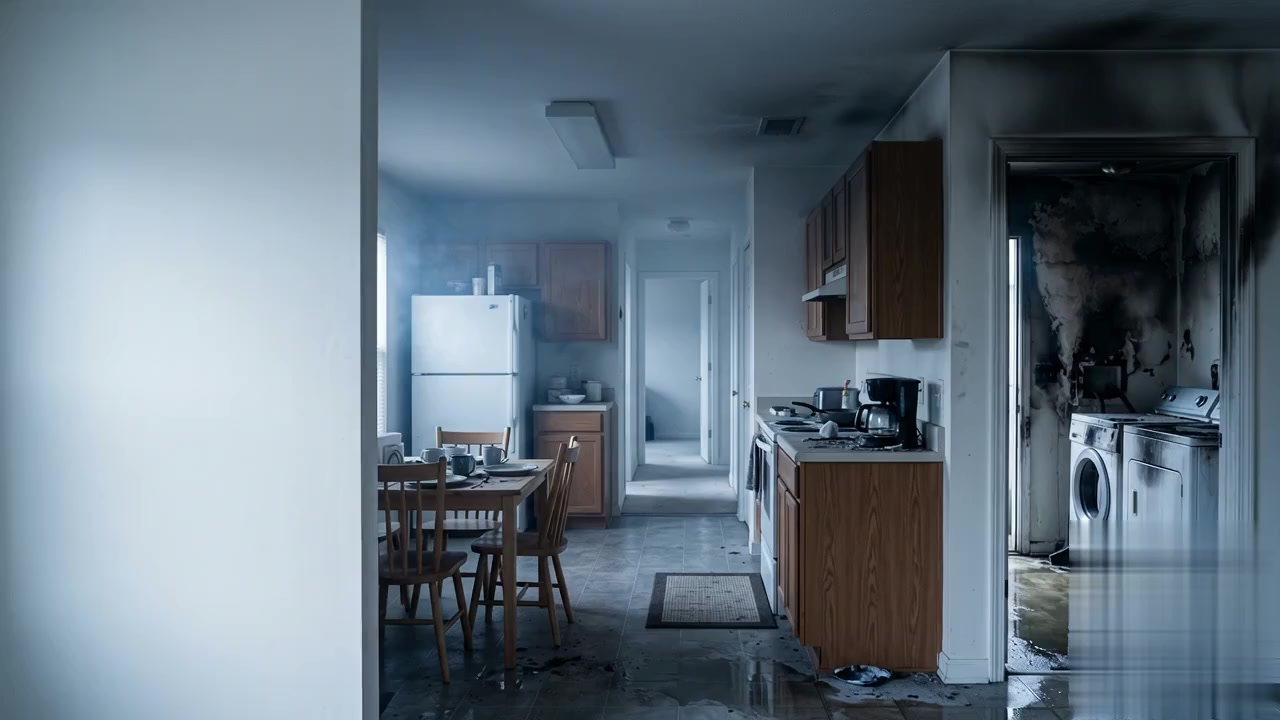
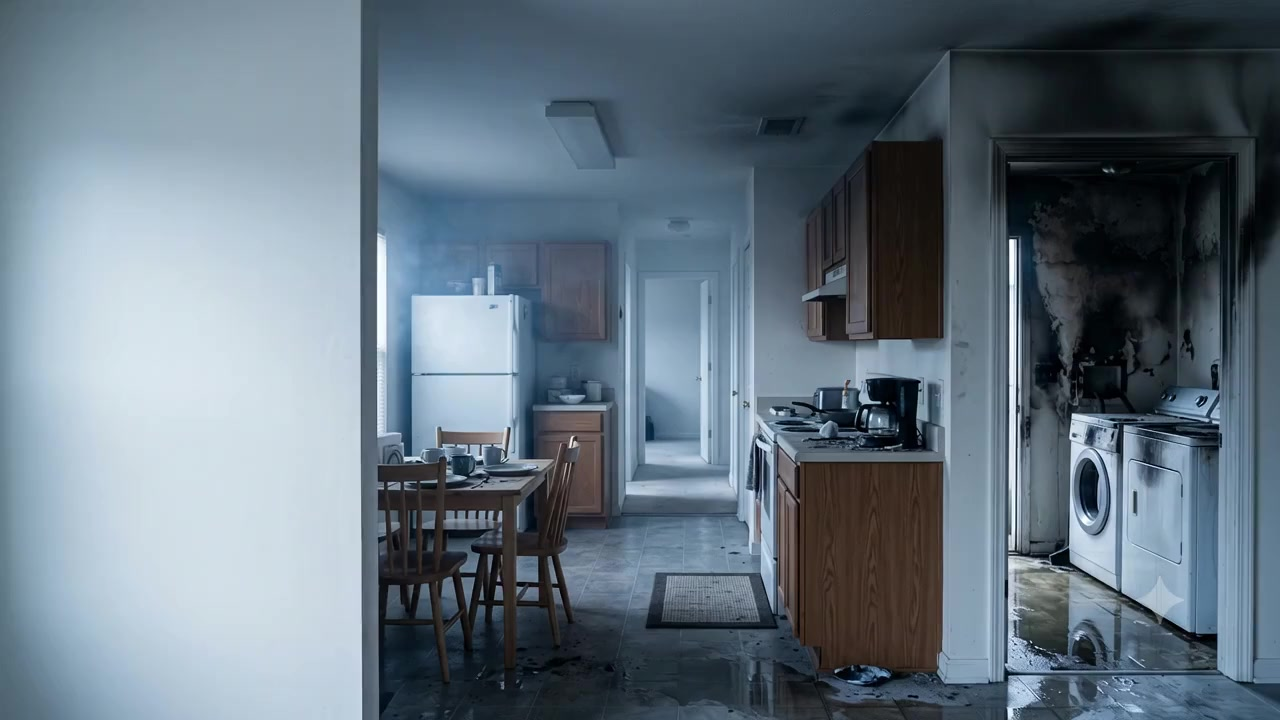
Homepage hero: dual-media, device- and motion-aware background
Replace the single hero clip with a four-layer media stack (residential +
commercial stills and videos) crossfaded by opacity:
- desktop (>900px): residential video crossfades to commercial and loops
  back; commercial clip lazy-loads on the tail; both muted/playsInline;
  pauses when the tab is hidden
- mobile (<=900px): two posters crossfade on a loop, no mp4 requested
- prefers-reduced-motion: residential still only, no JS, no video
Media-layer change only — hero layout, scrim, copy, and CTAs unchanged.
Adds commercial-hero.mp4 + poster; updates residential clip + poster.

Changed region(s): [[0.8125, 0.7028, 1.0, 1.0]]

diff --git a/index.html b/index.html
@@ -20,10 +20,14 @@
   /* HERO (homepage-specific) */
   .hero { position: relative; overflow: hidden; background: var(--navy-900); border-bottom: var(--border-1); isolation: isolate; }
   .hero__media { position: absolute; inset: 0; z-index: 0; background: var(--navy-900); }
-  .hero__media > img, .hero__media > video { position: absolute; inset: 0; width: 100%; height: 100%; object-fit: cover; object-position: 80% 50%; display: block; }
-  .hero__media > img { z-index: 0; }
-  .hero__media > video { z-index: 1; }
-  @media (prefers-reduced-motion: reduce){ .hero__media > video { display: none; } }
+  /* Four stacked media layers (2 stills + 2 videos). Crossfade via opacity; the incoming layer
+     is raised above the outgoing (is-front) so there is no navy dip between clips. All layers sit
+     below the navy scrim (::after, z-index:2) and the headline grid. */
+  .hero__layer { position: absolute; inset: 0; width: 100%; height: 100%; object-fit: cover; object-position: 80% 50%; display: block; z-index: 0; opacity: 0; }
+  .hero__still { transition: opacity .8s ease; }
+  .hero__vid   { transition: opacity 1s ease; }
+  .hero__layer.is-active { opacity: 1; }
+  .hero__layer.is-front  { z-index: 1; }
   .hero__media::after { content: ""; position: absolute; inset: 0; z-index: 2; pointer-events: none;
     background:
       linear-gradient(96deg, rgba(11,37,69,0.95) 0%, rgba(11,37,69,0.88) 22%, rgba(11,37,69,0.66) 44%, rgba(11,37,69,0.34) 64%, rgba(11,37,69,0.12) 82%, rgba(11,37,69,0.03) 100%),
@@ -111,20 +115,125 @@ const {
   ServiceCard, ArticleCard, Button, LeadForm, DisclaimerCallout, LicenseBadge
 } = window.AdjustlyDesignSystem_e51731;
 const A = window.ADJUSTLY;
-const POSTER = './assets/img/kitchen-hero-poster.jpg';
-const VIDEO  = './assets/video/kitchen-hero.mp4';
+const POSTER_RES = './assets/img/kitchen-hero-poster.jpg';
+const POSTER_COM = './assets/img/commercial-hero-poster.jpg';
+const VIDEO_RES  = './assets/video/kitchen-hero.mp4';
+const VIDEO_COM  = './assets/video/commercial-hero.mp4';
 
 function Hero(){
   const [on,setOn] = React.useState(false);
+  const resStill = React.useRef(null), comStill = React.useRef(null);
+  const resVid   = React.useRef(null), comVid   = React.useRef(null);
   React.useEffect(()=>{ const t=setTimeout(()=>setOn(true),60); return ()=>clearTimeout(t); },[]);
   const r = (d, base='')=>({ className:`${base?base+' ':''}adj-reveal${on?' adj-reveal--on':''}`, 'data-delay':String(d) });
+
+  // Device/motion-aware hero background. Pure DOM/classList control (no React re-render):
+  //  • reduced-motion → residential still only, no video, no mp4 loaded
+  //  • ≤900px (mobile) → crossfade the two stills, never request an mp4
+  //  • >900px (desktop) → crossfade residential ↔ commercial video, loop, pause when tab hidden
+  React.useEffect(()=>{
+    const RS=resStill.current, CS=comStill.current, RV=resVid.current, CV=comVid.current;
+    if(!RS||!CS||!RV||!CV) return;
+    const FADE_STILL=800, HOLD_STILL=4000, VID_FADE=1000, TAIL=1.0; // TAIL = seconds before clip end
+    let timers=[], interval=null, desktopCleanup=null;
+    const clearTimers=()=>{ timers.forEach(clearTimeout); timers=[]; if(interval){clearInterval(interval); interval=null;} };
+
+    // Raise `inc` above `out` and fade it in; once covered, drop `out`. Only `inc` animates → no dip.
+    const swap=(inc,out,fadeMs)=>{
+      inc.classList.add('is-front','is-active');
+      timers.push(setTimeout(()=>{ if(out){ out.classList.remove('is-active','is-front'); } }, fadeMs));
+    };
+    const reset=()=>{
+      clearTimers();
+      if(desktopCleanup){ desktopCleanup(); desktopCleanup=null; }
+      [RS,CS,RV,CV].forEach(el=>el.classList.remove('is-active','is-front'));
+      RS.classList.add('is-active','is-front');          // residential still is the resting base
+      [RV,CV].forEach(v=>{ try{ v.pause(); }catch(e){} });
+    };
+
+    const startMobile=()=>{
+      RV.removeAttribute('src'); CV.removeAttribute('src'); // guarantee zero mp4 network requests
+      let showingRes=true;
+      interval=setInterval(()=>{
+        if(document.hidden) return;
+        if(showingRes) swap(CS,RS,FADE_STILL); else swap(RS,CS,FADE_STILL);
+        showingRes=!showingRes;
+      }, HOLD_STILL+FADE_STILL);
+    };
+
+    const startDesktop=()=>{
+      RV.muted=true; CV.muted=true;
+      let switching=false;
+      const play=v=>{ const p=v.play(); if(p&&p.catch)p.catch(()=>{}); };
+      if(RV.getAttribute('src')!==VIDEO_RES) RV.src=VIDEO_RES;
+      const onResReady=()=>swap(RV,RS,VID_FADE);          // fade video in over the still once it paints
+      RV.addEventListener('playing', onResReady, {once:true});
+      RV.currentTime=0; play(RV);
+
+      const toCom=()=>{
+        if(switching || !RV.duration || RV.currentTime < RV.duration-TAIL) return;
+        switching=true;
+        if(CV.getAttribute('src')!==VIDEO_COM) CV.src=VIDEO_COM;
+        CV.currentTime=0; play(CV);
+        const go=()=>{ swap(CV,RV,VID_FADE);
+          timers.push(setTimeout(()=>{ try{RV.pause();RV.currentTime=0;}catch(e){} switching=false; }, VID_FADE)); };
+        if(CV.readyState>=2) go(); else CV.addEventListener('playing', go, {once:true});
+      };
+      const toRes=()=>{
+        if(switching || !CV.duration || CV.currentTime < CV.duration-TAIL) return;
+        switching=true;
+        RV.currentTime=0; play(RV);
+        swap(RV,CV,VID_FADE);
+        timers.push(setTimeout(()=>{ try{CV.pause();CV.currentTime=0;}catch(e){} switching=false; }, VID_FADE));
+      };
+      RV.addEventListener('timeupdate', toCom);
+      CV.addEventListener('timeupdate', toRes);
+      const onVis=()=>{ if(document.hidden){ try{RV.pause();}catch(e){} try{CV.pause();}catch(e){} }
+        else { play(CV.classList.contains('is-active')?CV:RV); } };
+      document.addEventListener('visibilitychange', onVis);
+      desktopCleanup=()=>{
+        RV.removeEventListener('timeupdate', toCom); CV.removeEventListener('timeupdate', toRes);
+        RV.removeEventListener('playing', onResReady); document.removeEventListener('visibilitychange', onVis);
+      };
+    };
+
+    const reduceMQ=window.matchMedia('(prefers-reduced-motion: reduce)');
+    const mobileMQ=window.matchMedia('(max-width: 900px)');
+    const apply=()=>{
+      reset();
+      if(reduceMQ.matches){ RV.removeAttribute('src'); CV.removeAttribute('src'); return; } // still only
+      if(mobileMQ.matches){ startMobile(); return; }
+      startDesktop();
+    };
+    apply();
+
+    let rt=null;
+    const onResize=()=>{ clearTimeout(rt); rt=setTimeout(apply,200); };
+    window.addEventListener('resize', onResize);
+    window.addEventListener('orientationchange', onResize);
+    const mqChange=()=>apply();
+    if(reduceMQ.addEventListener){ reduceMQ.addEventListener('change',mqChange); mobileMQ.addEventListener('change',mqChange); }
+    return ()=>{
+      clearTimers();
+      if(desktopCleanup) desktopCleanup();
+      window.removeEventListener('resize', onResize);
+      window.removeEventListener('orientationchange', onResize);
+      clearTimeout(rt);
+      if(reduceMQ.removeEventListener){ reduceMQ.removeEventListener('change',mqChange); mobileMQ.removeEventListener('change',mqChange); }
+    };
+  },[]);
+
   return (
     <section className="hero" id="top">
       <div className="hero__media">
-        <img src={POSTER} alt="Smoke- and water-damaged kitchen with a fire-scorched laundry-room doorway" />
-        <video autoPlay muted loop playsInline preload="auto" poster={POSTER} aria-hidden="true" tabIndex={-1}>
-          <source src={VIDEO} type="video/mp4" />
-        </video>
+        <img ref={resStill} className="hero__layer hero__still hero__still--res is-active is-front"
+             src={POSTER_RES} alt="Smoke- and water-damaged kitchen with a fire-scorched laundry-room doorway" aria-hidden="true" />
+        <img ref={comStill} className="hero__layer hero__still hero__still--com"
+             src={POSTER_COM} alt="" aria-hidden="true" />
+        <video ref={resVid} className="hero__layer hero__vid hero__vid--res" muted playsInline preload="auto"
+               data-src={VIDEO_RES} aria-hidden="true" tabIndex={-1}></video>
+        <video ref={comVid} className="hero__layer hero__vid hero__vid--com" muted playsInline preload="none"
+               data-src={VIDEO_COM} aria-hidden="true" tabIndex={-1}></video>
       </div>
       <div className="hero__grid">
         <div>